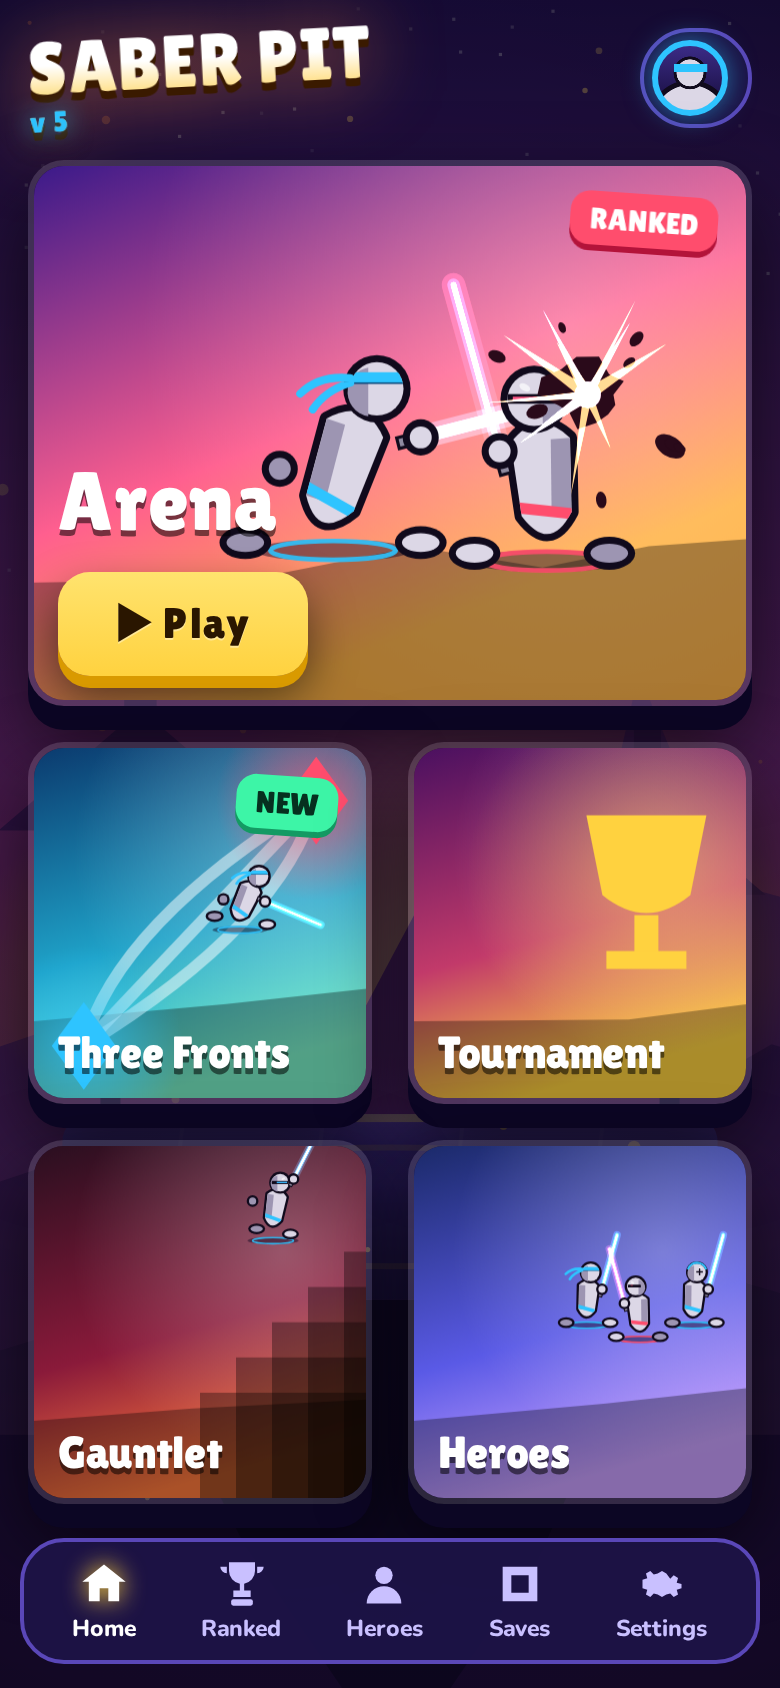
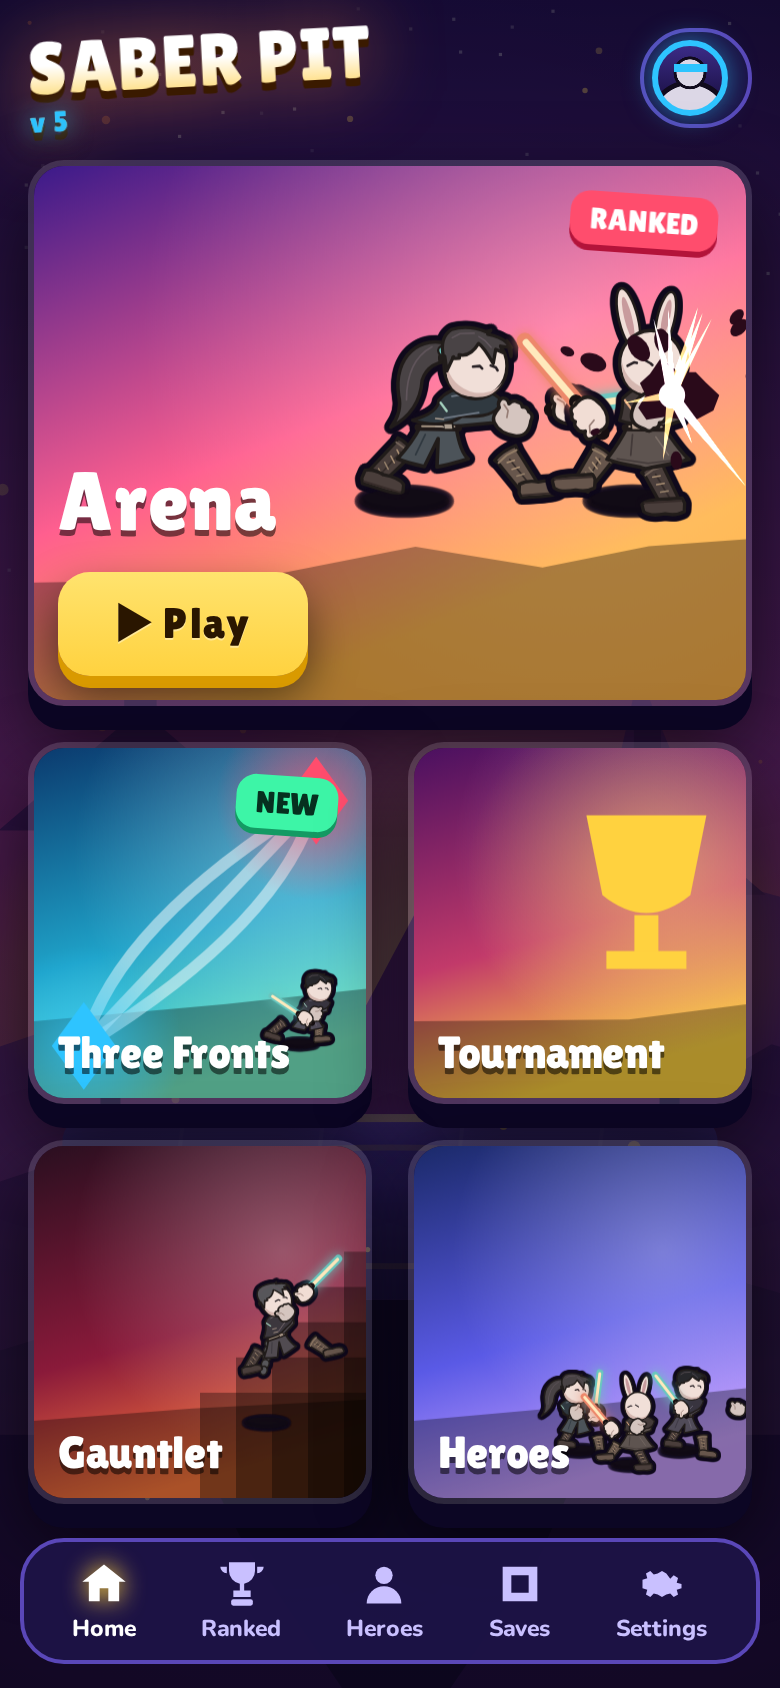
Mockup fighters use the game's own cast and painter, with a thick ink pass
Woman, femboy and rabbit drawn by the live ink-cutout painter and rig; woman keeps
her ponytail or braid. Adds a looks lineup view and refreshed shots.

diff --git a/docs/v5-look/mock.html b/docs/v5-look/mock.html
@@ -170,6 +170,7 @@ canvas.bg{position:absolute;inset:0;width:100%;height:100%}
 <canvas class="bg" id="bg"></canvas>
 
 <!-- MENU -->
+<section id="looks" hidden></section>
 <section class="menu" id="menu" hidden>
   <div class="topbar">
     <div class="logo">SABER PIT<small>v5</small></div>
@@ -231,7 +232,9 @@ canvas.bg{position:absolute;inset:0;width:100%;height:100%}
 </section>
 </div>
 
-<script>
+<script type="module">
+import {drawArcadeFighter as paintFighter} from '../../build/dist/arcade-painter.js';
+import {sampleArcadeFighter,sampleArcadeRenderRig} from '../../build/dist/arcade-fighters.js';
 const view=new URLSearchParams(location.search).get('view')||'duel';
 document.getElementById(view).hidden=false;
 const cv=document.getElementById('bg'),dpr=Math.min(2,devicePixelRatio||1);
@@ -281,53 +284,56 @@ function platform(c,w,h,py){
 /* Grim fighter: round faceless head, tapered body, floating hands and feet, thick ink outline.
    Team color lives on the accessory, the sash, the blade and the ring under the feet. */
 const INK='#100a1c';
+/* Fighters: the game's own ink-cutout painter (Saber Pit's live art), same rig, hair, robes,
+   boots and gloves. Mockup adds a thick ink pass and the game's woman ponytail/braid. */
+const LOOK={
+  woman:{body:'woman',gender:'female',seed:52,hair:'pony'},
+  woman2:{body:'woman',gender:'female',seed:85,hair:'braid'},
+  femboy:{body:'femboy',gender:'male',seed:5},
+  femboy2:{body:'femboy',gender:'male',seed:20},
+  rabbit:{body:'rabbit',gender:'nonbinary',seed:3},
+};
+const HAIR_INKS=['#27272b','#393639','#34343a','#494345','#272b2c','#57565a'];
+function backHair(c,L,rr,fd,team){
+  if(!L.hair)return;
+  const h=rr.head,ink=HAIR_INKS[(L.seed>>>4)%6],ribbon=team?'#ed886b':'#6ac7bf';
+  const rx=h.x-fd*11,ry=h.y-9;
+  c.save();c.lineJoin='round';c.lineCap='round';c.strokeStyle='#211c1a';c.lineWidth=1.8;c.fillStyle=ink;
+  if(L.hair==='pony'){
+    c.beginPath();c.moveTo(rx,ry-4);
+    c.bezierCurveTo(rx-fd*16,ry-10,rx-fd*30,ry+2,rx-fd*27,ry+22);
+    c.quadraticCurveTo(rx-fd*25,ry+30,rx-fd*31,ry+38);
+    c.quadraticCurveTo(rx-fd*16,ry+30,rx-fd*15,ry+14);
+    c.quadraticCurveTo(rx-fd*12,ry+4,rx+fd*2,ry+4);c.closePath();c.fill();c.stroke();
+    c.strokeStyle='#60555b';c.lineWidth=.9;c.beginPath();c.moveTo(rx-fd*10,ry-3);c.quadraticCurveTo(rx-fd*23,ry+4,rx-fd*23,ry+24);c.stroke();
+  }else{
+    for(let i=0;i<5;i++){const bx=rx-fd*(8+i*1.6),by=ry+4+i*7;c.beginPath();c.ellipse(bx,by,5.2-i*.4,4.6,fd*.3,0,7);c.fillStyle=ink;c.fill();c.strokeStyle='#211c1a';c.lineWidth=1.5;c.stroke();}
+  }
+  c.fillStyle=ribbon;c.strokeStyle='#211c1a';c.lineWidth=1.1;c.beginPath();c.ellipse(rx-fd*3,ry,4.2,2.8,fd*.6,0,7);c.fill();c.stroke();
+  c.restore();
+}
+let SCRATCH=null,SCRATCH2=null;
 function fighter(c,o){
-  const {x,y,s,team,pose:P}=o;const acc=o.acc??0;
-  const col=team==='b'?'#2ec4ff':'#ff4d6d',dk=team==='b'?'#0a4d80':'#7a0f2a';
-  const body='#dcd7e6',shade='#9d95b2',J=a=>[x+a[0]*s,y+a[1]*s],face=P.face||1;
-  const ol=s*.045;
-  // shadow and team ring
-  c.fillStyle='#0c062277';c.beginPath();c.ellipse(x,y+1.02*s,.5*s,.07*s,0,0,7);c.fill();
-  c.save();c.strokeStyle=col;c.globalAlpha=.9;c.lineWidth=s*.03;c.beginPath();c.ellipse(x,y+1.02*s,.4*s,.06*s,0,0,7);c.stroke();c.restore();
-  const blob=(p,rx,ry,rot,fill)=>{const [cx,cy]=J(p);c.save();c.translate(cx,cy);c.rotate(rot);c.fillStyle=INK;c.beginPath();c.ellipse(0,0,rx+ol,ry+ol,0,0,7);c.fill();c.fillStyle=fill;c.beginPath();c.ellipse(0,0,rx,ry,0,0,7);c.fill();c.restore();};
-  const foot=(p,f)=>blob(p,s*.12,s*.06,0,f);
-  const hand=(p,f)=>blob(p,s*.07,s*.07,0,f);
-  // back foot, back hand behind the body
-  foot([P.bf[0]+face*.04,P.bf[1]-.03],shade);hand(P.bh,shade);
-  // torso: tapered from broad shoulders to narrow hips
-  const [hx,hy]=J(P.hip),[nx,ny]=J(P.neck);let dx=nx-hx,dy=ny-hy;const L=Math.hypot(dx,dy);dx/=L;dy/=L;const px=-dy,py=dx;
-  const wh=s*.16,wn=s*.19;
-  const torso=()=>{c.beginPath();c.moveTo(hx+px*wh,hy+py*wh);c.lineTo(nx+px*wn,ny+py*wn);c.quadraticCurveTo(nx+dx*wn*1.1,ny+dy*wn*1.1,nx-px*wn,ny-py*wn);c.lineTo(hx-px*wh,hy-py*wh);c.quadraticCurveTo(hx-dx*wh*1.6,hy-dy*wh*1.6,hx+px*wh,hy+py*wh);c.closePath();};
-  c.save();c.lineJoin='round';torso();c.lineWidth=ol*2;c.strokeStyle=INK;c.stroke();c.fillStyle=body;c.fill();
-  torso();c.clip();c.fillStyle=shade;c.beginPath();c.moveTo(hx-px*wh*face,hy-py*wh*face);c.lineTo(nx-px*wn*face,ny-py*wn*face);c.lineTo(nx-px*wn*.35*face,ny-py*wn*.35*face);c.lineTo(hx-px*wh*.2*face,hy-py*wh*.2*face);c.fill();
-  // sash in team color
-  c.strokeStyle=col;c.lineWidth=s*.07;c.beginPath();c.moveTo(hx+px*wh*1.3-dx*s*.02,hy+py*wh*1.3-dy*s*.02);c.lineTo(hx-px*wh*1.3+dx*s*.06,hy-py*wh*1.3+dy*s*.06);c.stroke();
-  c.restore();
-  // front foot
-  foot([P.ff[0]+face*.04,P.ff[1]-.03],body);
-  // head: separate from the body, no face
-  const [qx,qy]=J(P.head),hr=s*.17;
-  c.fillStyle=INK;c.beginPath();c.arc(qx,qy,hr+ol,0,7);c.fill();c.fillStyle=body;c.beginPath();c.arc(qx,qy,hr,0,7);c.fill();
-  c.fillStyle=shade;c.beginPath();c.arc(qx-face*hr*.18,qy+hr*.12,hr*.92,Math.PI*(face>0?.55:-.45),Math.PI*(face>0?1.45:.45));c.fill();
-  c.fillStyle='#ffffffaa';c.beginPath();c.ellipse(qx+face*hr*.35,qy-hr*.45,hr*.22,hr*.13,-.5*face,0,7);c.fill();
-  // accessory
-  c.save();c.beginPath();c.arc(qx,qy,hr,0,7);c.clip();
-  if(acc===0){c.fillStyle=col;c.fillRect(qx-hr,qy-hr*.62,hr*2,hr*.42);c.fillStyle=dk;c.fillRect(qx-hr,qy-hr*.24,hr*2,hr*.06);}
-  if(acc===1){c.fillStyle=INK;c.beginPath();c.roundRect(qx-hr*.15+face*hr*.15-hr*.6,qy-hr*.22,hr*1.5,hr*.34,hr*.1);c.fill();c.fillStyle=col;c.fillRect(qx+face*hr*.45-hr*.12,qy-hr*.16,hr*.24,hr*.07);}
-  if(acc===2){c.fillStyle=INK;c.fillRect(qx-hr,qy-hr*.2,hr*2,hr*.36);c.save();c.globalCompositeOperation='lighter';c.fillStyle=col;c.fillRect(qx-hr*.1+face*hr*.2-hr*.5,qy-hr*.1,hr*1.2,hr*.14);c.restore();}
-  if(acc===3){c.strokeStyle=INK;c.lineWidth=hr*.16;c.beginPath();c.moveTo(qx+face*hr*.3,qy-hr*.45);c.lineTo(qx+face*hr*.3,qy+hr*.35);c.moveTo(qx+face*hr*.3-hr*.38,qy-hr*.05);c.lineTo(qx+face*hr*.3+hr*.38,qy-hr*.05);c.stroke();}
-  c.restore();
-  if(acc===0){c.strokeStyle=col;c.lineWidth=s*.05;c.lineCap='round';c.beginPath();const tx=qx-face*hr,ty=qy-hr*.4;c.moveTo(tx,ty);c.quadraticCurveTo(tx-face*s*.2,ty-s*.02,tx-face*s*.32,ty+s*.1);c.moveTo(tx,ty+s*.03);c.quadraticCurveTo(tx-face*s*.16,ty+s*.08,tx-face*s*.24,ty+s*.2);c.stroke();}
-  if(acc===3){c.strokeStyle=col;c.lineWidth=s*.04;c.beginPath();c.arc(qx,qy,hr+ol*.4,Math.PI*1.1,Math.PI*1.9);c.stroke();}
-  // saber from the front hand
-  const [h1x,h1y]=J(P.fh);const ang=P.saber,len=s*1.1;const tx=h1x+Math.cos(ang)*len,ty=h1y+Math.sin(ang)*len;
-  c.save();c.globalCompositeOperation='lighter';
-  for(const [wd,a] of [[s*.15,.22],[s*.08,.55]]){c.strokeStyle=col;c.globalAlpha=a;c.lineWidth=wd;c.lineCap='round';c.beginPath();c.moveTo(h1x,h1y);c.lineTo(tx,ty);c.stroke();}
-  c.globalAlpha=1;c.strokeStyle='#fff';c.lineWidth=s*.035;c.beginPath();c.moveTo(h1x,h1y);c.lineTo(tx,ty);c.stroke();c.restore();
-  c.strokeStyle=INK;c.lineWidth=s*.09;c.lineCap='butt';c.beginPath();c.moveTo(h1x-Math.cos(ang)*s*.16,h1y-Math.sin(ang)*s*.16);c.lineTo(h1x+Math.cos(ang)*s*.05,h1y+Math.sin(ang)*s*.05);c.stroke();
-  c.strokeStyle='#8f8aa0';c.lineWidth=s*.05;c.beginPath();c.moveTo(h1x-Math.cos(ang)*s*.14,h1y-Math.sin(ang)*s*.14);c.lineTo(h1x+Math.cos(ang)*s*.04,h1y+Math.sin(ang)*s*.04);c.stroke();
-  hand(P.fh,body);
-  return {tip:[tx,ty],hilt:[h1x,h1y],col};
+  const L=LOOK[o.look]||LOOK.femboy,k=o.h/92,fd=o.face<0?-1:1,team=o.team|0;
+  const f={peasantMotion:true,body:L.body,gender:L.gender,appearanceSeed:L.seed,team,form:o.form||'djem_so',
+    face:fd<0?Math.PI:0,action:o.act||'guard',actionTime:o.t??.3,actionDuration:.65,
+    attack:['slash','sweep','rush','leap'].includes(o.act)?{}:undefined,x:0,y:0};
+  const rig=sampleArcadeFighter(f,f.actionTime),rr=sampleArcadeRenderRig(f,rig,f.actionTime);
+  // thick ink pass: silhouette of body (no blades), dilated
+  const ox=180*k,oy=150*k,W=Math.ceil(360*k*dpr),Hh=Math.ceil(200*k*dpr);
+  SCRATCH=SCRATCH||document.createElement('canvas');SCRATCH2=SCRATCH2||document.createElement('canvas');
+  SCRATCH.width=W;SCRATCH.height=Hh;SCRATCH2.width=W;SCRATCH2.height=Hh;
+  const a=SCRATCH.getContext('2d');a.setTransform(dpr*k,0,0,dpr*k,ox*dpr,oy*dpr);
+  backHair(a,L,rr,fd,team);paintFighter(a,f,f.actionTime,{rig,hideSabers:true});
+  const b=SCRATCH2.getContext('2d');b.drawImage(SCRATCH,0,0);b.globalCompositeOperation='source-in';b.fillStyle=INK;b.fillRect(0,0,W,Hh);
+  const R=Math.max(1.6,k*2.6);
+  for(let i=0;i<16;i++){const an=i/16*Math.PI*2;c.drawImage(SCRATCH2,o.x-ox+Math.cos(an)*R,o.gy-oy+Math.sin(an)*R,W/dpr,Hh/dpr);}
+  // team ring under the feet (game team colors)
+  if(o.ring!==false){c.save();c.strokeStyle=team?'#ed886b':'#6ac7bf';c.globalAlpha=.85;c.lineWidth=Math.max(2,k*2.6);c.beginPath();c.ellipse(o.x,o.gy+2*k,27*k,7*k,0,0,7);c.stroke();c.restore();}
+  c.save();c.translate(o.x,o.gy);c.scale(k,k);c.lineJoin='round';
+  backHair(c,L,rr,fd,team);paintFighter(c,f,f.actionTime,{rig});c.restore();
+  const W2=p=>[o.x+p.x*k,o.gy+p.y*k],hilt=rr.emitter||rr.hand,tip=rr.blade||hilt;
+  return {tip:W2(tip),hilt:W2(hilt),col:team?'#ff4d6d':'#2ec4ff'};
 }
 /* Sharp slash: a thin crescent with a hard white edge and team-color rim. */
 function smear(c,cx,cy,r,a0,a1,col){
@@ -352,15 +358,6 @@ function spark(c,x,y,r,col){
 }
 function speedLines(c,w,h){c.save();c.globalAlpha=.10;c.strokeStyle='#fff';const R=rnd(3);for(let i=0;i<40;i++){const y=R()*h,x=R()*w;c.lineWidth=1+R()*3;c.beginPath();c.moveTo(x,y);c.lineTo(x+120+R()*200,y);c.stroke();}c.restore();}
 
-const poses={
-  lunge:{hip:[-.02,.72],neck:[.14,.24],head:[.28,-.01],ff:[.52,1],bf:[-.6,1],fh:[.56,.3],bh:[-.34,.5],saber:-.25,face:1},
-  hurt:{hip:[.05,.74],neck:[-.12,.29],head:[-.29,.08],ff:[.36,1],bf:[-.42,.98],fh:[.2,.02],bh:[-.52,.14],saber:-2.5,face:1},
-  guard:{hip:[0,.72],neck:[.04,.25],head:[.08,-.01],ff:[.42,1],bf:[-.44,1],fh:[.3,.32],bh:[.02,.56],saber:-1.3,face:1},
-  run:{hip:[0,.7],neck:[.2,.26],head:[.35,.04],ff:[.46,.95],bf:[-.5,.8],fh:[.46,.5],bh:[-.3,.46],saber:.4,face:1},
-  air:{hip:[0,.6],neck:[.08,.14],head:[.14,-.11],ff:[.3,.92],bf:[-.36,.82],fh:[.4,-.18],bh:[-.4,.25],saber:-1.1,face:1},
-};
-function mirror(p){const m=a=>[-a[0],a[1]];const o={};for(const k in p){const v=p[k];o[k]=k==='saber'?Math.PI-v:k==='face'?-v:Array.isArray(v[0])?v.map(m):m(v);}return o;}
-
 function arenaScene(c,w,h,mode){
   sky(c,w,h);
   ridge(c,w,h,h*.62,h*.12,'#7a2f7e',11,true);
@@ -375,23 +372,29 @@ function arenaScene(c,w,h,mode){
   if(mode==='duel'){
     const s=w<600?h*.11:h*.19;const ax=w*(w<600?.4:.43),bx=w*(w<600?.66:.6);
     speedLines(c,w,h);
-    const a=fighter(c,{x:ax,y:py-s*1.02,s,team:'b',pose:poses.lunge,acc:0});
-    smear(c,a.hilt[0],a.hilt[1],s*1.05,-2.1,-0.25,'#2ec4ff');
-    fighter(c,{x:bx,y:py-s*1.02-s*.06,s,team:'r',pose:mirror(poses.hurt),acc:1});
-    spark(c,a.tip[0]+s*.05,a.tip[1]+s*.02,s*.28,'#ffffff');
+    const a=fighter(c,{x:ax-s*.25,gy:py,h:s*1.2,look:'woman',team:0,act:'rush',t:.32,face:1});
+    smear(c,a.hilt[0],a.hilt[1],s*1.05,-2.1,-0.25,'#6ac7bf');
+    fighter(c,{x:bx+s*.35,gy:py,h:s*1.2,look:'femboy',team:1,act:'hit',t:.08,face:-1});
+    spark(c,a.tip[0]-s*.08,a.tip[1],s*.24,'#ffffff');
     // knockback dust
     c.fillStyle='#ffffff55';for(let i=0;i<6;i++){c.beginPath();c.arc(bx+s*.3+i*s*.12,py-4-i*2,s*(.08-i*.008),0,7);c.fill();}
     const d=document.getElementById('dmg'),cl=document.getElementById('call');
     d.style.left=(bx+s*.1)+'px';d.style.top=(py-s*2.15)+'px';cl.style.left=(ax-s*1.4)+'px';cl.style.top=(py-s*2.05)+'px';
   }
+  if(mode==='looks'){
+    const s=w<600?h*.1:h*.2,row=[['woman','guard',.2],['woman2','rush',.32],['femboy','sweep',.32],['femboy2','parry',.32],['rabbit','leap',.32]];
+    row.forEach(([lk,act,t],i)=>{const x=w*(.12+i*.19);fighter(c,{x,gy:py,h:s*1.15,look:lk,team:i%2,act,t,face:1});
+      c.font=`800 ${Math.round(s*.13)}px Nunito,sans-serif`;c.textAlign='center';c.fillStyle='#fff';c.fillText(lk.replace(/2$/,''),x,py+s*.42);});
+  }
   if(mode==='squad'){
     const s=w<600?h*.06:h*.1;const R2=rnd(5);
     // capture zones
     for(const [zx,col] of [[.22,'#2ec4ff'],[.5,'#ffffff'],[.78,'#ff4d6d']]){c.save();c.globalAlpha=.35;c.strokeStyle=col;c.lineWidth=4;c.setLineDash([12,10]);c.beginPath();c.ellipse(w*zx,py+h*.05,s*2.2,s*.45,0,0,7);c.stroke();c.restore();}
-    const list=[];for(let i=0;i<9;i++)list.push({x:w*(.12+R2()*.36),t:'b',p:['run','lunge','guard','air'][i%4]});for(let i=0;i<8;i++)list.push({x:w*(.52+R2()*.36),t:'r',p:['run','guard','lunge','hurt'][i%4]});
+    const looks=['woman','femboy','rabbit','woman2','femboy2'],acts=[['rush',.32],['sweep',.32],['leap',.32],['dash',.32],['parry',.32],['guard',.2],['slash',.2],['hit',.08]];
+    const list=[];for(let i=0;i<9;i++)list.push({x:w*(.1+R2()*.38),t:0,look:looks[i%5],a:acts[i%8]});for(let i=0;i<8;i++)list.push({x:w*(.52+R2()*.38),t:1,look:looks[(i+2)%5],a:acts[(i+3)%8]});
     list.sort((p,q)=>p.x-q.x);
-    for(const f of list){const air=f.p==='air';const pose=f.t==='b'?poses[f.p]:mirror(poses[f.p]);fighter(c,{x:f.x,y:py-s*1.02-(air?s*.9:0)+R2()*6,s,team:f.t,pose,acc:Math.floor(R2()*4)});}
-    spark(c,w*.5,py-s*1.2,s*.35,'#ffffff');smear(c,w*.47,py-s*1.3,s,-2.2,-.4,'#2ec4ff');
+    for(const f of list)fighter(c,{x:f.x,gy:py+R2()*s*.3,h:s*1.35,look:f.look,team:f.t,act:f.a[0],t:f.a[1],face:f.t?-1:1});
+    spark(c,w*.5,py-s*.9,s*.35,'#ffffff');smear(c,w*.47,py-s*1.1,s,-2.2,-.4,'#6ac7bf');
   }
 }
 function cardArt(cv,kind){
@@ -401,13 +404,13 @@ function cardArt(cv,kind){
   glow(c,w*.75,h*.3,Math.max(w,h)*.6,'#ffffff44');
   ridge(c,w,h,h*.78,h*.12,'#00000055',kind.length*13);
   const s=Math.min(h*.32,w*.22);
-  if(kind==='duel'){const a=fighter(c,{x:w*.42,y:h*.42,s,team:'b',pose:poses.lunge});fighter(c,{x:w*.72,y:h*.44,s,team:'r',pose:mirror(poses.guard),acc:2});spark(c,a.tip[0],a.tip[1],s*.3,'#ffffff');}
+  if(kind==='duel'){const a=fighter(c,{x:w*.52,gy:h*.62,h:s*1.15,look:'woman',team:0,act:'rush',t:.32,face:1,ring:false});fighter(c,{x:w*.84,gy:h*.62,h:s*1.15,look:'rabbit',team:1,act:'parry',t:.32,face:-1,ring:false});spark(c,a.tip[0],a.tip[1],s*.3,'#ffffff');}
   if(kind==='fronts'){c.globalAlpha=.5;c.strokeStyle='#fff';c.lineWidth=6;for(const k of [-1,0,1]){c.beginPath();c.moveTo(w*.15,h*.85);c.quadraticCurveTo(w*(.5+k*.25),h*(.5-k*.0),w*.85,h*.15);c.stroke();}c.globalAlpha=1;
     for(const [x,y,cl] of [[w*.15,h*.85,'#2ec4ff'],[w*.85,h*.15,'#ff4d6d']]){c.fillStyle=cl;c.beginPath();c.moveTo(x,y-22);c.lineTo(x+16,y);c.lineTo(x,y+22);c.lineTo(x-16,y);c.fill();glow(c,x,y,50,cl+'aa');}
-    fighter(c,{x:w*.62,y:h*.36,s:s*.75,team:'b',pose:poses.run});}
+    fighter(c,{x:w*.8,gy:h*.84,h:s*1.0,look:'femboy',team:0,act:'dash',t:.32,face:1,ring:false});}
   if(kind==='tour'){c.fillStyle='#ffd23f';c.beginPath();const x=w*.7,y=h*.42;c.moveTo(x-30,y-40);c.lineTo(x+30,y-40);c.lineTo(x+22,y);c.quadraticCurveTo(x,y+18,x-22,y);c.closePath();c.fill();c.fillRect(x-6,y+10,12,20);c.fillRect(x-20,y+28,40,9);glow(c,x,y-10,90,'#ffd23f66');}
-  if(kind==='gaunt'){for(let i=0;i<5;i++){c.fillStyle='#00000055';c.fillRect(w*.5+i*18,h*(.7-i*.1),w,h);}fighter(c,{x:w*.72,y:h*.12,s:s*.7,team:'b',pose:poses.air,acc:2});}
-  if(kind==='heroes'){for(const [i,t] of [[0,'b'],[1,'r'],[2,'b']])fighter(c,{x:w*(.52+i*.16),y:h*(.36+(i%2)*.04),s:s*.7,team:t,pose:i===1?mirror(poses.guard):poses.guard,acc:i===1?1:i===0?0:3});}
+  if(kind==='gaunt'){for(let i=0;i<5;i++){c.fillStyle='#00000055';c.fillRect(w*.5+i*18,h*(.7-i*.1),w,h);}fighter(c,{x:w*.7,gy:h*.78,h:s*1.2,look:'woman2',team:0,act:'leap',t:.32,face:1,ring:false});}
+  if(kind==='heroes'){for(const [i,lk,act] of [[0,'woman','guard'],[1,'rabbit','parry'],[2,'femboy','force']])fighter(c,{x:w*(.5+i*.15),gy:h*(.86+(i%2)*.04),h:s*1.05,look:lk,team:i===1?1:0,act,t:.32,face:i===1?-1:1,ring:false});}
 }
 
 if(view==='menu'){

diff --git a/docs/v5-look/README.md b/docs/v5-look/README.md
@@ -4,7 +4,7 @@ Status: draft from CLARISSA-01, to agree with CLARA-01 before anything is built.
 
 Player's verdict on 5.1.0: it looks like a hacker terminal or a submarine console, not a game from today. Decluttering did not fix that. v5 needs a new art direction.
 
-Mockup: `mock.html?view=menu|duel|squad`. Shots in `shots/` (1340x820 and 390x844). Static, hand-drawn on canvas, for direction only.
+Mockup: `mock.html?view=menu|duel|squad|looks`, served from the repo root after a build (it imports the fighter painter from `build/dist`). Shots in `shots/` (1340x820 and 390x844). Static, for direction only.
 
 ## Inspiration, our own look
 
@@ -66,7 +66,8 @@ The arena backdrop stays darker and cooler than the fighters, so fighters always
 
 - Illustrated parallax layers: sky, far ridge, buildings, near ridge.
 - A floating stage with rim light, torch glow and drifting embers.
-- **Fighters (sketch for Clara's pass):** grim, Madness-inspired but our own. Round faceless head, tapered body, floating hands and feet, thick ink outline, low wide stance. Bodies pale grey; team color on bandana, shades, visor or sash, the blade, and a ring under the feet.
+- **Fighters: our own cast, unchanged identity.** The mockup draws them with the game's live ink-cutout painter and rig (`arcade-painter.js`, peasant art): round pale heads, two-stroke eyes, hair caps, layered robe and mantle, belt clasp, laced boots, big pale gloves. Looks: woman (long hair, ponytail or braid with a team ribbon, from the classic woman art), femboy (short cap or knot), rabbit (long ears). See `shots/looks-*.png`.
+- **PW2 feel on top:** a thick ink pass around the whole body, deep lunges and recoils from the game's own action frames (rush, sweep, leap, parry, hit), slash smears and impact sparks. No new characters.
 - **Impacts:** thin sharp slash crescents, jagged spark shards, dark ink splats.
 - **Sabers:** additive glow with a white core.
 
